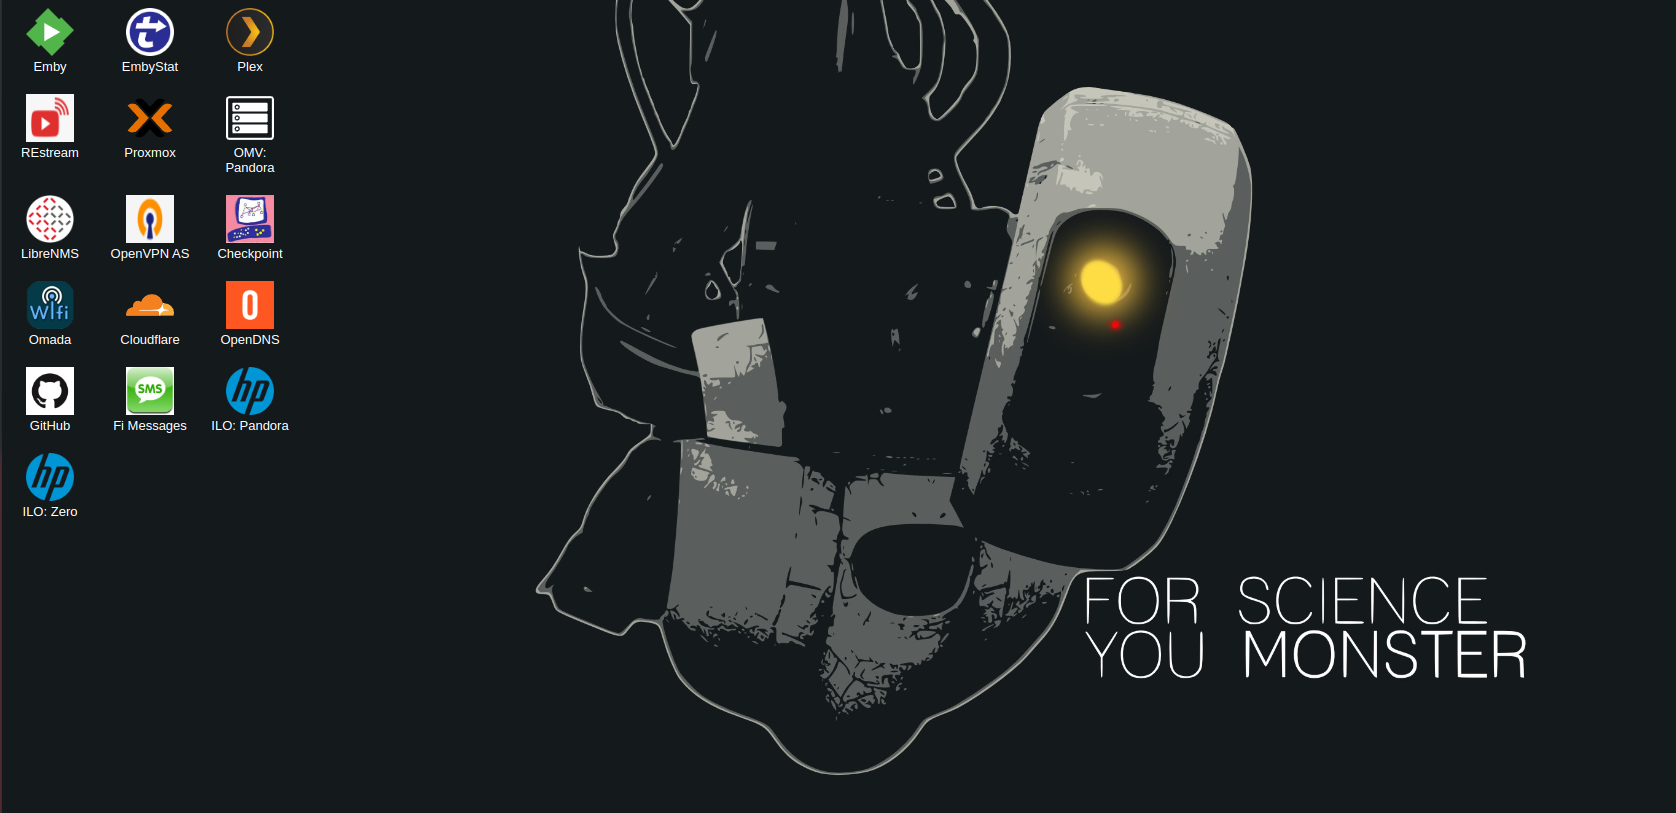
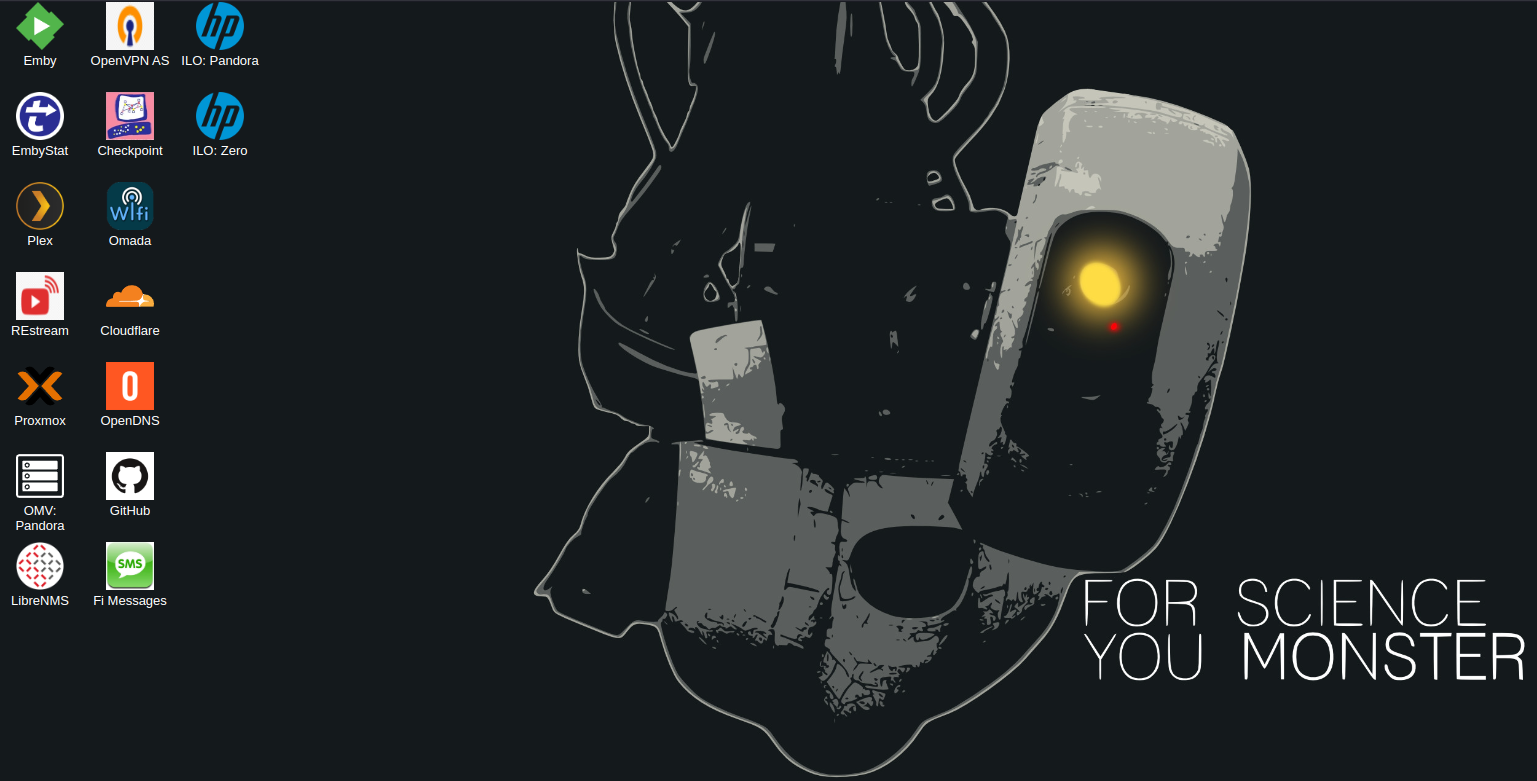
new file:   index.css 	new file:   index.js 	modified:   index.php 	modified:   preview/preview.png

diff --git a/index.css b/index.css
@@ -1,0 +1,36 @@
+body {
+  background-image: var(--wallpaper);
+  background-repeat: no-repeat;
+  background-attachment: fixed;
+  background-size: cover;
+  background-position: center;
+  background-color: black;
+  color: white;
+  font-family: Verdana, Geneva, Tahoma, sans-serif;
+  font-size: small;
+  text-decoration: none;
+  margin: 0px;
+  padding: 0px;
+}
+.grid-container {
+  overflow: hidden;
+  display: inline-grid;
+  grid-auto-flow: column;
+  grid-gap: 10px;
+  grid-template-rows: repeat(auto-fit, minmax(var(--cell-size), var(--cell-size)));
+  grid-template-columns: repeat(auto-fit, minmax(var(--cell-size), var(--cell-size)));
+  height: var(--display-height);
+  width: var(--display-width);
+}
+.grid-item {
+  text-align: center;
+}
+.icon {
+  width: var(--icon-size);
+  height: var(--icon-size);
+  cursor: pointer;
+}
+.icon-text {
+  color: white;
+  cursor: pointer;
+}

diff --git a/index.js b/index.js
@@ -1,0 +1,6 @@
+function attachEvents(){
+  $('.icon, .icon-text').click(event => {
+    dest = $(event.target).parent()[0].dataset.url;
+    window.open(dest, "_blank");        
+  });
+}

diff --git a/index.php b/index.php
@@ -8,42 +8,21 @@
   <head>
     <title>My Desktop</title>
     <script src="https://ajax.googleapis.com/ajax/libs/jquery/3.6.0/jquery.min.js"></script>
+    <script src="./index.js"></script>
     <base target="_blank">
     <link rel="icon" type="image/png" href="./desktop-icon.png" />
     <style>
-      body {
-        background-image: url("wallpaper/GLaDOS - For Science.jpg");
-        background-repeat: no-repeat;
-        background-attachment: fixed;
-        background-size: cover;
-        background-position: center;
-        background-color: black;
-        color: white;
-        font-family: Verdana, Geneva, Tahoma, sans-serif;
-        font-size: small;
-        text-decoration: none;
-      }
-      .grid-container {
-        display: inline-grid;
-        grid-template-columns: 80px 80px 80px;
-        column-gap: 20px;
-        row-gap: 20px;
-        height: 100%;
-      }
-      .grid-item {
-        text-align: center;
-      }
-      .icon {
-        width: 48px;
-        height: 48px;
-        cursor: pointer;
-      }
-      .icon-text {
-        color: white;
-        cursor: pointer;
+      :root {
+        --icon-size: 48px;
+        --cell-size: 80px;
+        --display-height: 80vh;
+        --display-width: 100vw;
+        --wallpaper: url("wallpaper/GLaDOS - For Science.jpg");
       }
     </style>
+    <link rel="stylesheet" href="./index.css">
   </head>
+  
   <body>
     <div class="grid-container">
 <?php
@@ -57,11 +36,6 @@
 ?>
     </div>
 
-    <script>
-      $('.icon, .icon-text').click(event => {
-        dest = $(event.target).parent()[0].dataset.url;
-        window.open(dest, "_blank");        
-      });
-    </script>
+    <script>attachEvents();</script>
   </body>
 </html>
